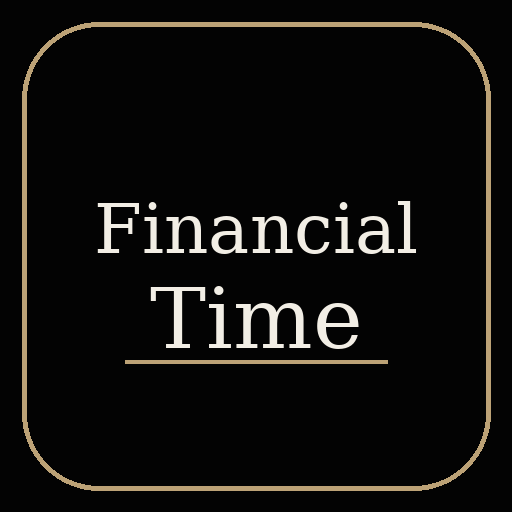
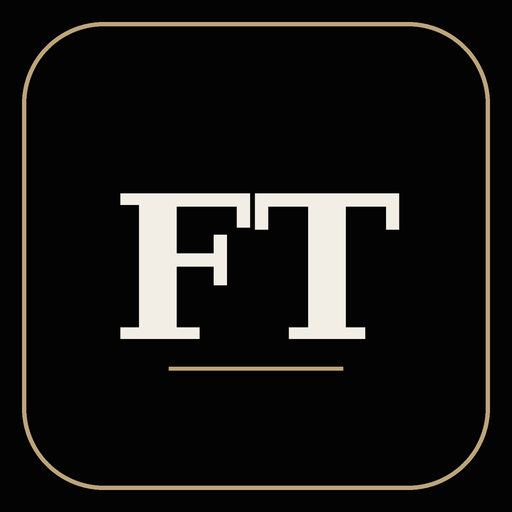
Add files via upload

diff --git a/app.js b/app.js
@@ -8,6 +8,6 @@ const timeFmt=tz=>new Intl.DateTimeFormat('pt-PT',{timeZone:tz,hour:'2-digit',mi
 function updateClocks(){const now=new Date();document.getElementById('today').textContent=dateFmt.format(now);const cities=[['NOVA YORK','America/New_York',false],['LISBOA','Europe/Lisbon',true],['TÓQUIO','Asia/Tokyo',false]];document.getElementById('clocks').innerHTML=cities.map(([name,tz,central])=>`<div class="clock ${central?'lisbon':''}"><div class="city">${name}</div><div class="time">${timeFmt(tz).format(now)}</div><div class="status">ESTADO INDISPONÍVEL</div></div>`).join('')}
 function series(seed,change){let val=50;const out=[];for(let i=0;i<90;i++){val+=(Math.sin((i+seed)*1.7)*1.1+Math.sin((i+seed)*.43)*1.9)*.22+change*.024;out.push(val)}return out}
 function draw(canvas,asset){if(!canvas)return;const r=canvas.getBoundingClientRect();if(r.width<10||r.height<10)return;const dpr=Math.min(devicePixelRatio||1,2);canvas.width=Math.round(r.width*dpr);canvas.height=Math.round(r.height*dpr);const ctx=canvas.getContext('2d');ctx.scale(dpr,dpr);const w=r.width,h=r.height,p={l:5,r:34,t:11,b:10},cw=w-p.l-p.r,ch=h-p.t-p.b;if(cw<10||ch<8)return;const vals=series(asset.seed,asset.change),lo=Math.min(...vals)-.8,hi=Math.max(...vals)+.8,x=i=>p.l+i*cw/(vals.length-1),y=v=>p.t+(hi-v)*ch/(hi-lo),color=asset.change>=0?'#36d49a':'#f06f76';ctx.font='9px DM Sans,Arial,sans-serif';ctx.fillStyle='#747c7c';for(let j=0;j<3;j++){const yy=p.t+j*ch/2;ctx.strokeStyle='#292c2d';ctx.lineWidth=.7;ctx.beginPath();ctx.moveTo(p.l,yy);ctx.lineTo(w-p.r+3,yy);ctx.stroke();ctx.fillText((hi-j*(hi-lo)/2).toFixed(1),w-p.r+6,yy+3)}const grad=ctx.createLinearGradient(0,p.t,0,h);grad.addColorStop(0,asset.change>=0?'rgba(54,212,154,.18)':'rgba(240,111,118,.18)');grad.addColorStop(1,'rgba(0,0,0,0)');ctx.beginPath();vals.forEach((v,i)=>i?ctx.lineTo(x(i),y(v)):ctx.moveTo(x(i),y(v)));ctx.lineTo(x(vals.length-1),h-p.b);ctx.lineTo(x(0),h-p.b);ctx.closePath();ctx.fillStyle=grad;ctx.fill();ctx.beginPath();vals.forEach((v,i)=>i?ctx.lineTo(x(i),y(v)):ctx.moveTo(x(i),y(v)));ctx.strokeStyle=color;ctx.lineWidth=2;ctx.lineJoin='round';ctx.stroke();ctx.fillStyle=color;ctx.beginPath();ctx.arc(x(vals.length-1),y(vals.at(-1)),2.8,0,Math.PI*2);ctx.fill()}
-function render(){document.getElementById('assets').innerHTML=assets.map((a,i)=>`<article class="asset"><div class="asset-info"><div class="ticker">${a.symbol}</div><div class="subtitle">${a.name}</div><div class="quote"><span class="price">${fmt(a.price,a.currency)}</span><span class="change ${a.change>=0?'up':'down'}">${a.change>=0?'▲':'▼'} ${Math.abs(a.change).toFixed(2)}%</span></div></div><div class="chartbox"><canvas id="chart${i}" aria-label="Gráfico ilustrativo ${a.symbol}"></canvas><span class="chart-caption">1 MÊS · DEMO</span></div></article>`).join('');document.getElementById('markets').innerHTML=markets.map((m,mi)=>`<article class="market"><div><div class="market-title"><h2>${m.name}</h2><span class="region">${m.region}</span></div><div class="market-sub">WEEKLY PERFORMANCE · DEMO</div></div>${['up','down'].map(type=>{const a=m[type];return `<button class="mover" data-market="${mi}" data-type="${type}"><span><small>${type==='up'?'▲ MAIOR SUBIDA':'▼ MAIOR DESCIDA'}</small><strong>${a.ticker}</strong></span><span class="change ${type==='up'?'up':'down'}">${a.pct>0?'+':''}${a.pct.toFixed(1)}%</span></button>`}).join('')}</article>`).join('');redraw();document.querySelectorAll('.mover').forEach(button=>button.addEventListener('click',()=>{const m=markets[Number(button.dataset.market)],a=m[button.dataset.type];document.getElementById('detailContent').innerHTML=`<small>DEMONSTRAÇÃO FICTÍCIA · ${m.name}</small><h2>${a.name}</h2><p><strong>${a.ticker}</strong> · Variação semanal ilustrativa: <strong>${a.pct>0?'+':''}${a.pct}%</strong></p><p>${a.description}</p><p>Não existem notícias verificadas nem uma explicação real do movimento nesta versão. Estes valores e empresas são exclusivamente demonstrativos.</p>`;document.getElementById('details').showModal()}))}
+function render(){document.getElementById('assets').innerHTML=assets.map((a,i)=>`<article class="asset"><div class="asset-info"><div class="ticker">${a.symbol}</div><div class="subtitle">${a.name}</div><div class="quote"><span class="price">${fmt(a.price,a.currency)}</span><span class="change ${a.change>=0?'up':'down'}">${a.change>=0?'▲':'▼'} ${Math.abs(a.change).toFixed(2)}%</span></div></div><div class="chartbox"><canvas id="chart${i}" aria-label="Gráfico ilustrativo ${a.symbol}"></canvas><span class="chart-caption">1 MÊS</span></div></article>`).join('');document.getElementById('markets').innerHTML=markets.map((m,mi)=>`<article class="market"><div><div class="market-title"><h2>${m.name}</h2><span class="region">${m.region}</span></div><div class="market-sub">DESEMPENHO SEMANAL</div></div>${['up','down'].map(type=>{const a=m[type];return `<button class="mover" data-market="${mi}" data-type="${type}"><span><small>${type==='up'?'▲ MAIOR SUBIDA':'▼ MAIOR DESCIDA'}</small><strong>${a.ticker}</strong></span><span class="change ${type==='up'?'up':'down'}">${a.pct>0?'+':''}${a.pct.toFixed(1)}%</span></button>`}).join('')}</article>`).join('');redraw();document.querySelectorAll('.mover').forEach(button=>button.addEventListener('click',()=>{const m=markets[Number(button.dataset.market)],a=m[button.dataset.type];document.getElementById('detailContent').innerHTML=`<small>DEMONSTRAÇÃO FICTÍCIA · ${m.name}</small><h2>${a.name}</h2><p><strong>${a.ticker}</strong> · Variação semanal ilustrativa: <strong>${a.pct>0?'+':''}${a.pct}%</strong></p><p>${a.description}</p><p>Não existem notícias verificadas nem uma explicação real do movimento nesta versão. Estes valores e empresas são exclusivamente demonstrativos.</p>`;document.getElementById('details').showModal()}))}
 function redraw(){assets.forEach((a,i)=>draw(document.getElementById('chart'+i),a))}
 updateClocks();setInterval(updateClocks,1000);render();window.addEventListener('resize',redraw);document.getElementById('close').onclick=()=>document.getElementById('details').close();document.getElementById('details').addEventListener('click',e=>{if(e.target.id==='details')e.target.close()});if('serviceWorker' in navigator)navigator.serviceWorker.register('./sw.js').catch(()=>{});

diff --git a/style.css b/style.css
@@ -25,3 +25,25 @@ footer{border-top-color:#4e4435;font-size:8px}
 @media(max-width:1000px){.upper{grid-template-columns:minmax(0,65%) minmax(0,35%)}.asset{grid-template-columns:minmax(132px,39%) minmax(0,61%)}.clock{min-width:97px;padding:7px 8px}.market{padding:9px}.market h2{font-size:14px}}
 @media(max-height:650px){.masthead{min-height:62px;padding-bottom:6px}.brand-title{font-size:25px}.brand-date{font-size:10px;margin-top:3px}.clock{padding:4px 8px}.time{font-size:15px;margin:2px}.city{font-size:8px}.status{font-size:7px}main{grid-template-rows:minmax(0,1fr) minmax(135px,32%);gap:7px;padding:7px 0}.assets{gap:6px}.asset-info{padding:4px 9px}.ticker{font-size:11px}.subtitle{font-size:9px}.price{font-size:16px}.chartbox{padding:3px 6px 2px 0}.market{padding:8px 10px}.market h2{font-size:13px}.market-sub{display:block;font-size:7px;margin:1px 0}.mover{padding:3px 0}.mover small{font-size:8px}.mover strong{font-size:10px}footer{height:18px;font-size:7px}}
 @media(max-width:730px) and (orientation:landscape){.upper{grid-template-columns:68% 32%}.clock{min-width:75px;padding:4px}.brand-title{font-size:22px}.market h2{font-size:11px}.market-sub{display:none}}
+
+/* V4 · compact market terminal, dedicated blank workspace */
+.upper{grid-template-columns:minmax(0,54%) minmax(0,46%);gap:12px}
+.asset{grid-template-columns:minmax(0,49%) minmax(0,51%);border-color:#282724;background:linear-gradient(100deg,#111110,#090a0a)}
+.asset-info{padding-left:clamp(10px,1.4vw,18px)}
+.chartbox{padding:10px 8px 8px 0}
+.reserved{background:#030303;border-color:#101111}
+.reserved-top{display:none}
+.brand-title{font-size:clamp(27px,2.9vw,38px)}
+.brand-date{color:#c2b8a5;font-size:12px}
+.clock{background:#0b0b0b;border-color:#34302a;box-shadow:none}
+.clock.lisbon{background:#16130f;border-color:#9d835b;box-shadow:inset 0 0 0 1px #30271b}
+.market{background:linear-gradient(155deg,#171612,#0b0b0b);border-color:#3a3328;border-top-color:#c5a97a;padding:clamp(12px,1.4vw,18px)}
+.market h2{font-size:clamp(16px,1.55vw,21px)}
+.market-sub{color:#8f8a80}
+.mover{padding:clamp(7px,.8vw,12px) 0}
+.mover small{font-size:clamp(9px,.85vw,11px);color:#a39e95}
+.mover strong{font-size:clamp(13px,1.25vw,16px)}
+.mover .change{font-size:clamp(12px,1.15vw,15px)}
+@media(max-width:1000px){.upper{grid-template-columns:minmax(0,57%) minmax(0,43%)}.asset{grid-template-columns:minmax(0,48%) minmax(0,52%)}.market h2{font-size:15px}.mover strong{font-size:13px}}
+@media(max-height:650px){.masthead{min-height:65px}.brand-date{font-size:10px}.market{padding:9px 11px}.market h2{font-size:14px}.mover{padding:4px 0}.mover small{font-size:8px}.mover strong{font-size:12px}.mover .change{font-size:12px}}
+@media(max-width:730px) and (orientation:landscape){.upper{grid-template-columns:60% 40%}.asset{grid-template-columns:49% 51%}}

diff --git a/index.html b/index.html
@@ -1,7 +1,7 @@
 <!doctype html>
-<html lang="pt-PT"><head><meta charset="UTF-8"><meta name="viewport" content="width=device-width,initial-scale=1,viewport-fit=cover"><meta name="theme-color" content="#050505"><meta name="apple-mobile-web-app-capable" content="yes"><meta name="apple-mobile-web-app-status-bar-style" content="black-translucent"><link rel="manifest" href="manifest.webmanifest"><link rel="apple-touch-icon" sizes="180x180" href="apple-touch-icon.png"><link rel="icon" type="image/png" sizes="192x192" href="icon-192.png"><title>Financial Time — Market Terminal</title><link rel="stylesheet" href="style.css?v=3"></head>
+<html lang="pt-PT"><head><meta charset="UTF-8"><meta name="viewport" content="width=device-width,initial-scale=1,viewport-fit=cover"><meta name="theme-color" content="#050505"><meta name="apple-mobile-web-app-capable" content="yes"><meta name="apple-mobile-web-app-status-bar-style" content="black-translucent"><link rel="manifest" href="manifest.webmanifest"><link rel="apple-touch-icon" sizes="180x180" href="apple-touch-icon.png"><link rel="icon" type="image/png" sizes="192x192" href="icon-192.png"><title>Financial Time — Market Terminal</title><link rel="stylesheet" href="style.css?v=4"></head>
 <body><div class="app">
 <header class="masthead"><div class="identity"><div class="brand-title">Financial Time<span class="brand-period">.</span></div><div class="brand-date" id="today">—</div></div><div class="clocks" id="clocks" aria-label="Relógios dos mercados"></div></header>
-<main><section class="upper" aria-label="Ativos acompanhados"><div class="assets" id="assets"></div><aside class="reserved" aria-label="Espaço reservado"><div class="reserved-top">MARKET INTELLIGENCE <span> / FUTURE MODULE</span></div></aside></section><section class="markets" id="markets" aria-label="Índices e desempenho semanal"></section></main>
-<footer><span><b>FT</b> / GLOBAL MARKET DESK</span><span>DEMONSTRAÇÃO · COTAÇÕES E EMPRESAS FICTÍCIAS · SEM DADOS EM TEMPO REAL</span></footer></div>
-<dialog id="details"><button id="close" aria-label="Fechar janela">×</button><div id="detailContent"></div></dialog><script src="app.js?v=3"></script></body></html>
+<main><section class="upper" aria-label="Ativos acompanhados"><div class="assets" id="assets"></div><aside class="reserved" aria-label="Espaço reservado"><div class="reserved-top"></div></aside></section><section class="markets" id="markets" aria-label="Índices e desempenho semanal"></section></main>
+<footer><span><b>FT</b> / GLOBAL MARKET DESK</span><span>DADOS ILUSTRATIVOS · SEM COTAÇÕES EM TEMPO REAL</span></footer></div>
+<dialog id="details"><button id="close" aria-label="Fechar janela">×</button><div id="detailContent"></div></dialog><script src="app.js?v=4"></script></body></html>

diff --git a/sw.js b/sw.js
@@ -1,1 +1,1 @@
-const CACHE='financial-time-terminal-v3';const ASSETS=['./','./index.html','./style.css','./app.js','./icon.svg','./icon-192.png','./icon-512.png','./apple-touch-icon.png','./manifest.webmanifest'];self.addEventListener('install',event=>{self.skipWaiting();event.waitUntil(caches.open(CACHE).then(cache=>cache.addAll(ASSETS)))});self.addEventListener('activate',event=>event.waitUntil(Promise.all([caches.keys().then(keys=>Promise.all(keys.filter(key=>key!==CACHE).map(key=>caches.delete(key)))),self.clients.claim()])));self.addEventListener('fetch',event=>{if(event.request.method==='GET'&&new URL(event.request.url).origin===self.location.origin)event.respondWith(fetch(event.request).catch(()=>caches.match(event.request)))})
+const CACHE='financial-time-terminal-v4';const ASSETS=['./','./index.html','./style.css','./app.js','./icon.svg','./icon-192.png','./icon-512.png','./apple-touch-icon.png','./manifest.webmanifest'];self.addEventListener('install',event=>{self.skipWaiting();event.waitUntil(caches.open(CACHE).then(cache=>cache.addAll(ASSETS)))});self.addEventListener('activate',event=>event.waitUntil(Promise.all([caches.keys().then(keys=>Promise.all(keys.filter(key=>key!==CACHE).map(key=>caches.delete(key)))),self.clients.claim()])));self.addEventListener('fetch',event=>{if(event.request.method==='GET'&&new URL(event.request.url).origin===self.location.origin)event.respondWith(fetch(event.request).catch(()=>caches.match(event.request)))})

diff --git a/README.md b/README.md
@@ -1,7 +1,9 @@
-Financial Time V3 — Terminal Profissional
+# Financial Time — Terminal V4
 
-Carrega todos os 10 ficheiros na raiz do repositório GitHub Pages (main). Substitui os 7 anteriores e adiciona os 3 PNG. Mantém as definições de Pages.
+Projeto estático para GitHub Pages. Carrega os 10 ficheiros desta pasta para a raiz do repositório financial-time.
 
-Os dados e os gráficos continuam demonstrativos e não são cotações reais.
+Mudanças: gráficos compactos, espaço livre à direita, cartões inferiores melhorados, data e relógios refinados, ícone FT preto com contorno dourado.
 
-Para atualizar o ícone no ecrã principal do iPad, elimina o atalho antigo e volta a adicioná-lo pelo Safari depois de o site estar atualizado.
+**Atenção:** preços, gráficos e empresas continuam a ser dados demonstrativos, não dados financeiros reais.
+
+Se o ícone antigo persistir no iPad, remove o atalho do ecrã principal, abre a página no Safari e adiciona-a novamente.
